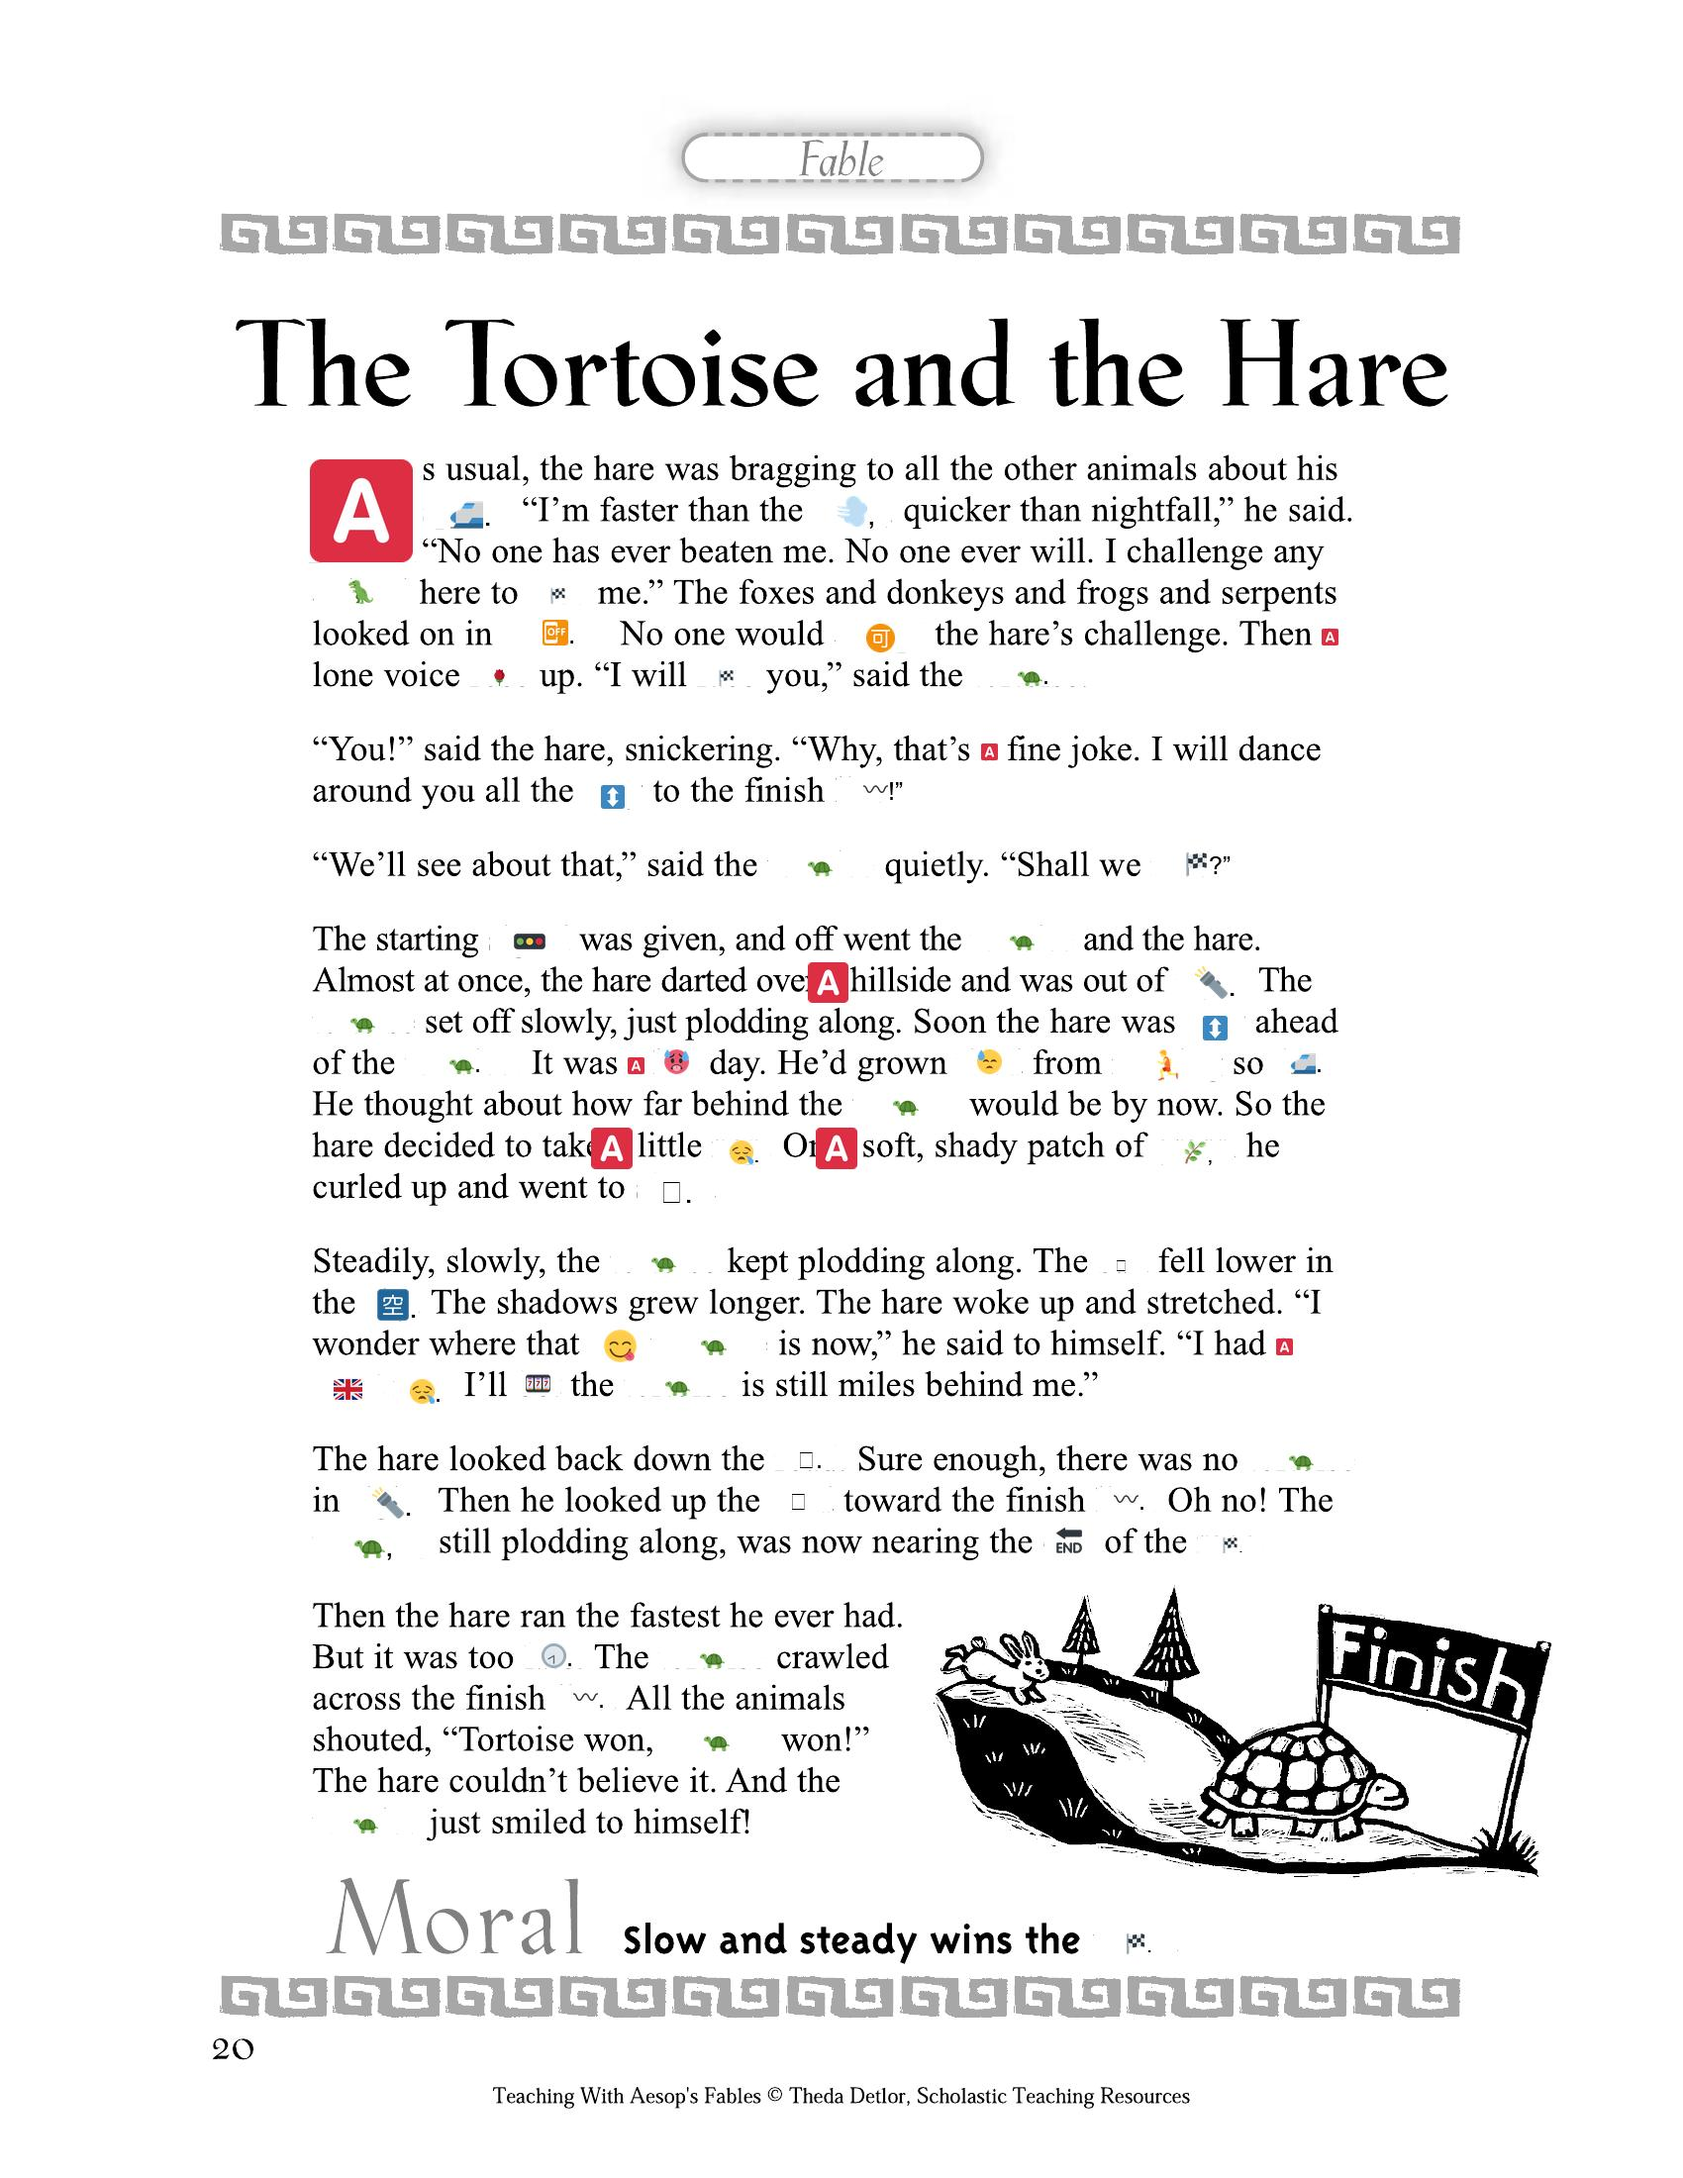
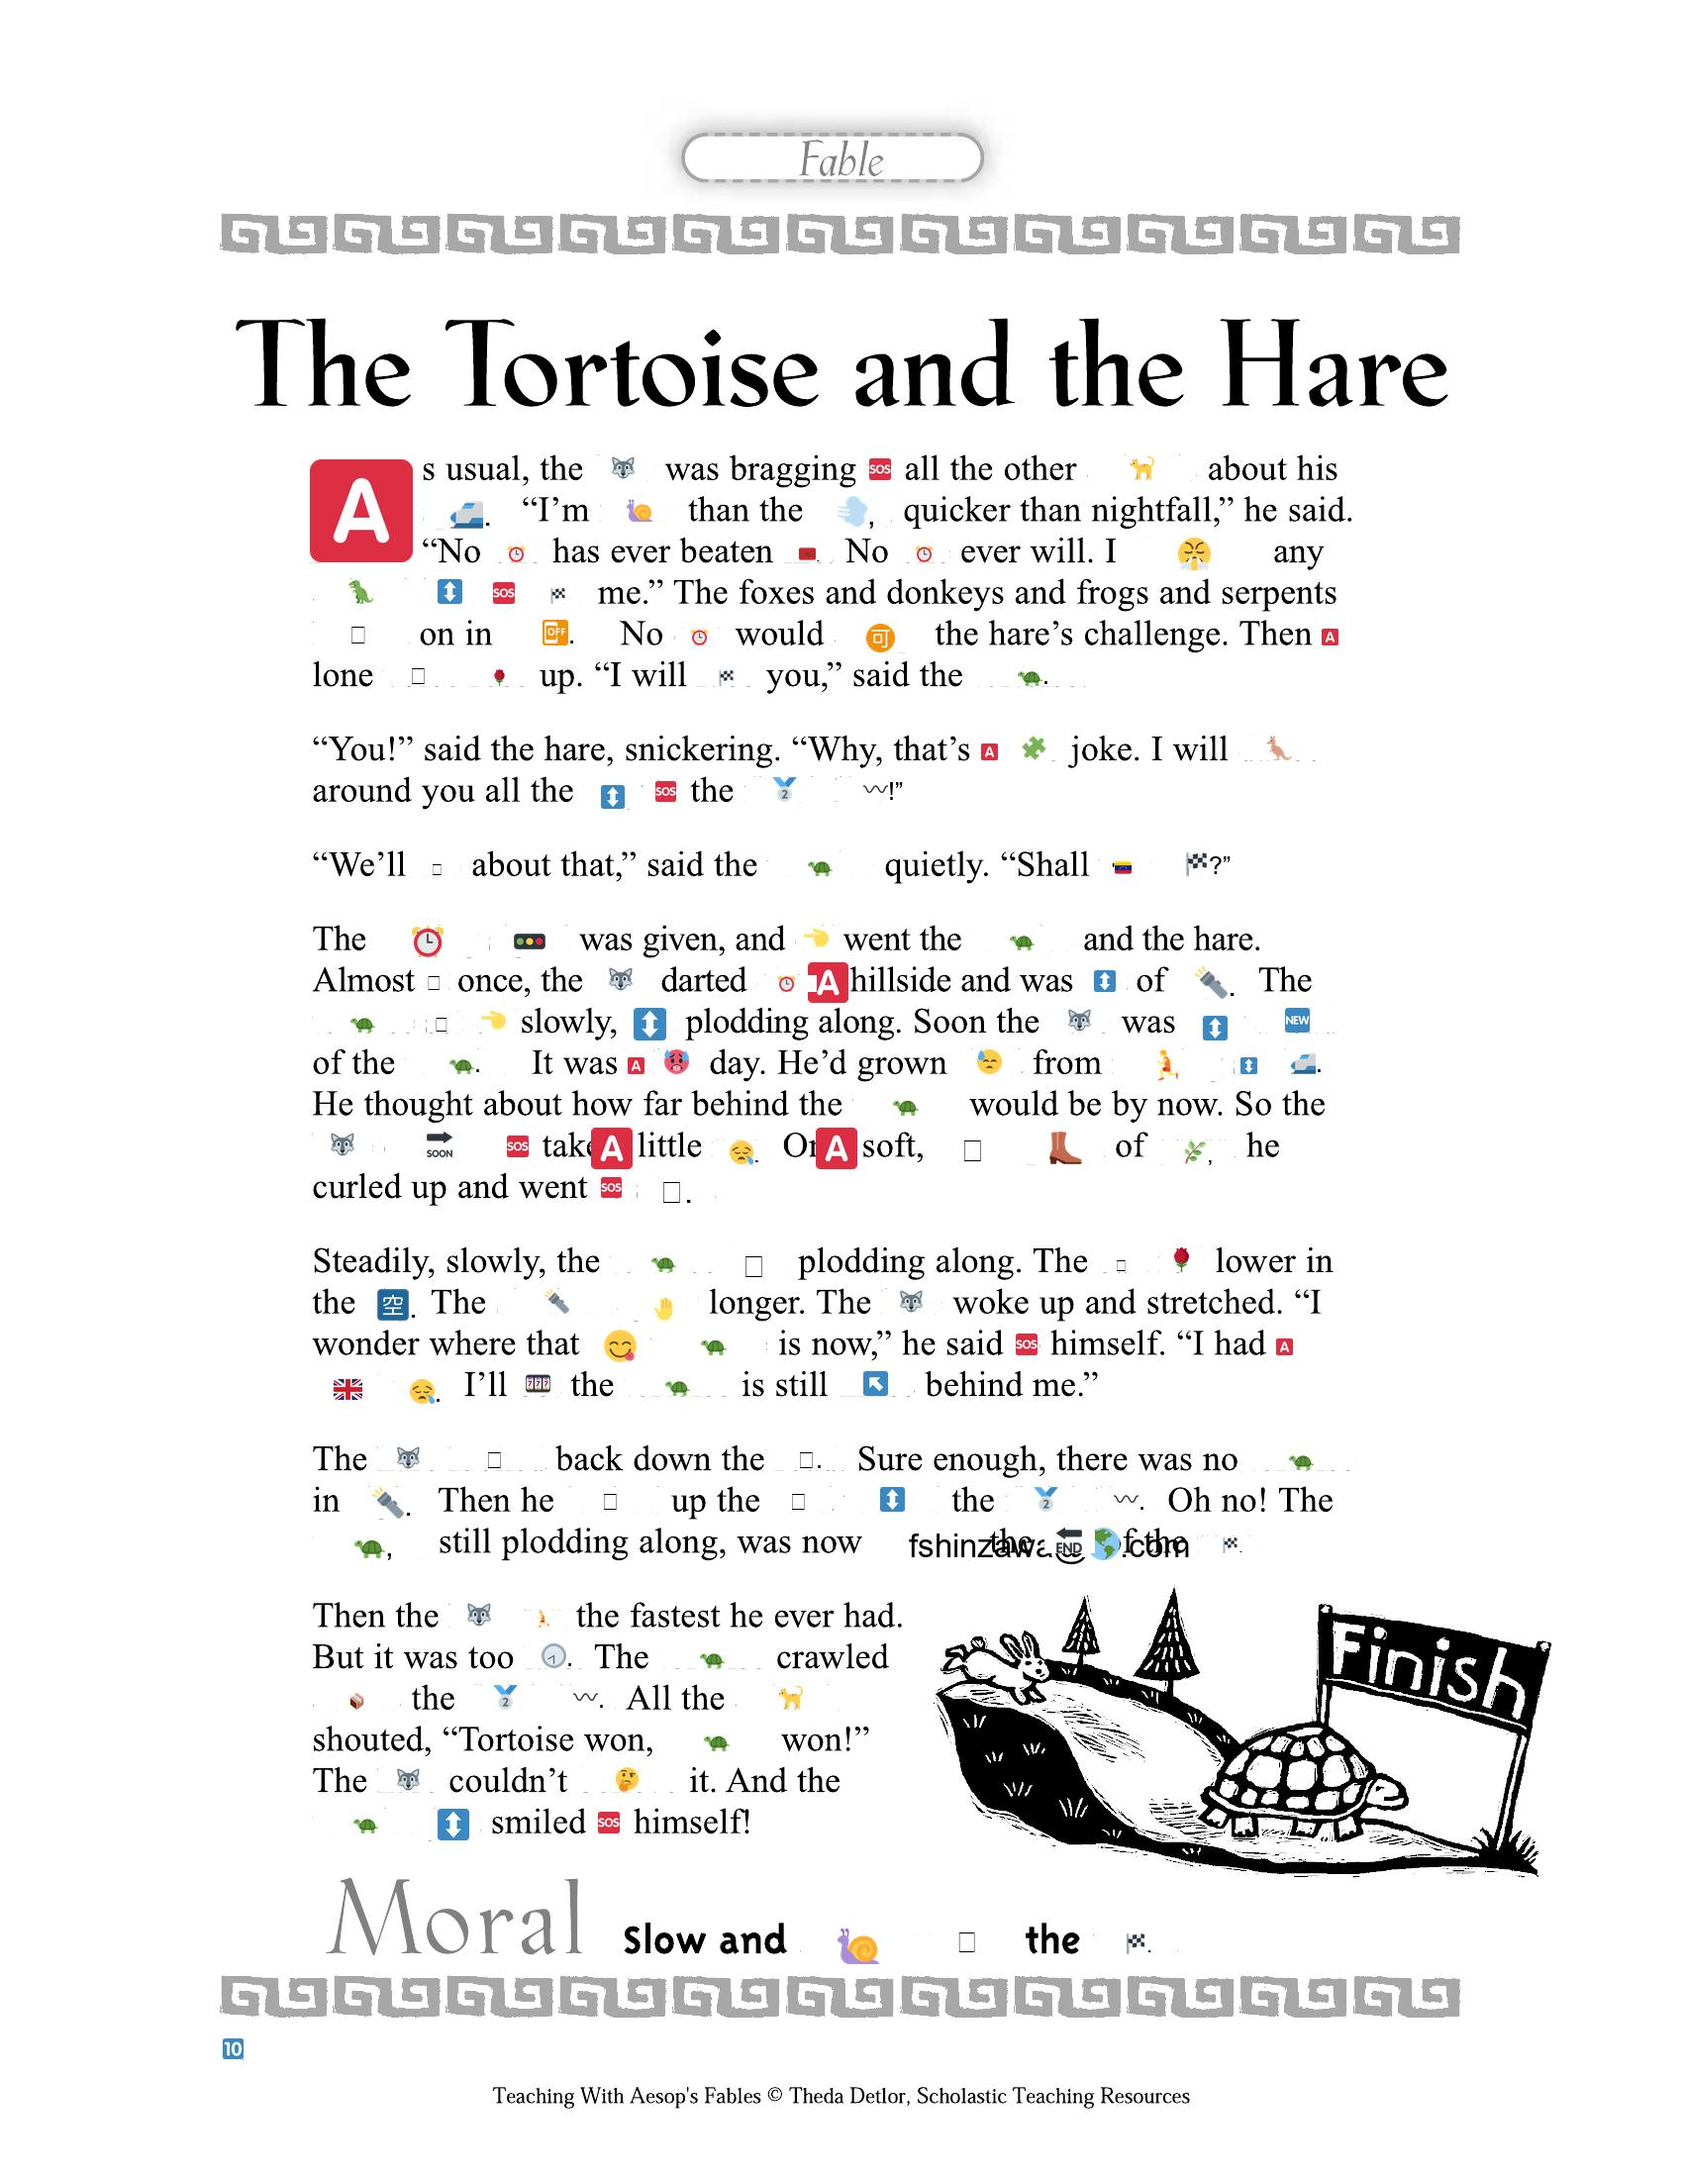
final version before checks

diff --git a/testing_dict.py b/testing_dict.py
@@ -2,7 +2,7 @@ from emoji_translate.emoji_translate import Translator
 import torchtext
 import torch
 
-def emojify(word):
+def emojify(word, enable_glove = False):
     ignore_words = {'the', 'in', 'and', 'but', 'yet'}
     custom_emojis = {'A': '🅰', 'a': '🅰'}
         # custom_emojis = {'a': '\U0001F170'}
@@ -11,27 +11,25 @@ def emojify(word):
     if word in ignore_words:
         return None
     else:
-        # try:
-        #     emojified_word = emo.emojify(word)
-        #     if emojified_word != word:
-        #         return emojified_word
-        #     elif word.lower() in custom_emojis.keys():
-        #         return custom_emojis[word]
-        #     else:
-        #         most_similar = None
-        #         glove = torchtext.vocab.GloVe(name="6B",  # trained on Wikipedia 2014 corpus
-        #                                     dim=100)  # embedding size = 50
-        #         vec = glove[word]
-        #         dists = torch.norm(glove.vectors - vec, dim=1)
-        #         lst = sorted(enumerate(dists.numpy()), key=lambda x: x[1])  # sort by distance
-        #         for idx, difference in lst[1:10 + 1]:  # take the top n
-        #             poss_emoji = emo.emojify(glove.itos[idx])
-        #             if glove.itos[idx] != poss_emoji:
-        #                 most_similar = poss_emoji
-        #         return most_similar
-        # except:
-        #     return None
-        return None
+        emojified_word = emo.emojify(word)
+        if emojified_word != word:
+            return emojified_word
+        elif word.lower() in custom_emojis.keys():
+            return custom_emojis[word]
+        else:
+            if enable_glove:
+                most_similar = None
+                glove = torchtext.vocab.GloVe(name="6B",  # trained on Wikipedia 2014 corpus
+                                            dim=100)  # embedding size = 50
+                vec = glove[word]
+                dists = torch.norm(glove.vectors - vec, dim=1)
+                lst = sorted(enumerate(dists.numpy()), key=lambda x: x[1])  # sort by distance
+                for idx, difference in lst[1:10 + 1]:  # take the top n
+                    poss_emoji = emo.emojify(glove.itos[idx])
+                    if glove.itos[idx] != poss_emoji:
+                        most_similar = poss_emoji
+                return most_similar
+            return None
 def main():
     # # test = 'i love chicken. What the fuck is guacamole. avocado and avocados'
     # test = 'love love love love love'

diff --git a/EmojifyDoc.py b/EmojifyDoc.py
@@ -13,6 +13,7 @@ PDF_HANDLE_INDEX_FRONT = -4
 
 parser = argparse.ArgumentParser(description='Run EmojifyDoc.')
 parser.add_argument('--path', type=str, required=True)
+parser.add_argument('--glove', nargs='?', const=False, type=bool, default=False)
 
 # Need this to make Pytesseract run on my computer. Will differ for other users.
 pt.pytesseract.tesseract_cmd = r'C:\Users\steve\AppData\Local\Tesseract-OCR\tesseract.exe'
@@ -75,7 +76,7 @@ def emojify_text(img, xy: tuple, unicode: str):
     with Pilmoji(img) as pilmoji:
         pilmoji.text(emoji_location, unicode, (0, 0, 0), font)
 
-def check_emojify(words_dict, img):
+def check_emojify(words_dict, img, check_glove):
     '''
     Checks words in document to see if an emoji version
     exists and calls replacement function.
@@ -83,7 +84,7 @@ def check_emojify(words_dict, img):
     words_dict = dict containing words and list of 4-tuples
     '''
     for key, val in words_dict.items():
-        emojified = emojify(key)
+        emojified = emojify(key, check_glove)
         if (emojified):
             for v in val:
                 emojify_text(img, v, emojified)
@@ -95,6 +96,7 @@ if __name__ == "__main__":
 
     args = parser.parse_args()
     input_pdf_path = args.path
+    enable_glove = args.glove
 
     pil_images = pdf_to_pil_images(input_pdf_path)
     final_pil_images = []
@@ -102,7 +104,7 @@ if __name__ == "__main__":
     for img in pil_images:
         # final_pil_images.append(img)
         page_info = get_words_and_bounding_boxes(img)
-        final_pil_images.append(check_emojify(page_info, img))
+        final_pil_images.append(check_emojify(page_info, img, enable_glove))
 
     page_one = final_pil_images[0]
     file_name = os.path.basename(input_pdf_path)

diff --git a/README.md b/README.md
@@ -13,7 +13,11 @@ Output Document:
 
 ___
 
-**Be sure to run run_glove_file.py first to utilize GloVe. Otherwise, the default emoji suggestion is used.**
+Instructions:
+python EmojifyDoc.py --path path_to_pdf (--glove True/False, optional and default False)
+
+
+**Run run_glove_file.py first to download everything necessary to utilize GloVe. Otherwise, the default emoji suggestion is used. Note that this may drastically increase the runtime for less powerful computers.**
 
 ### How EmojifyDoc works: 
 
